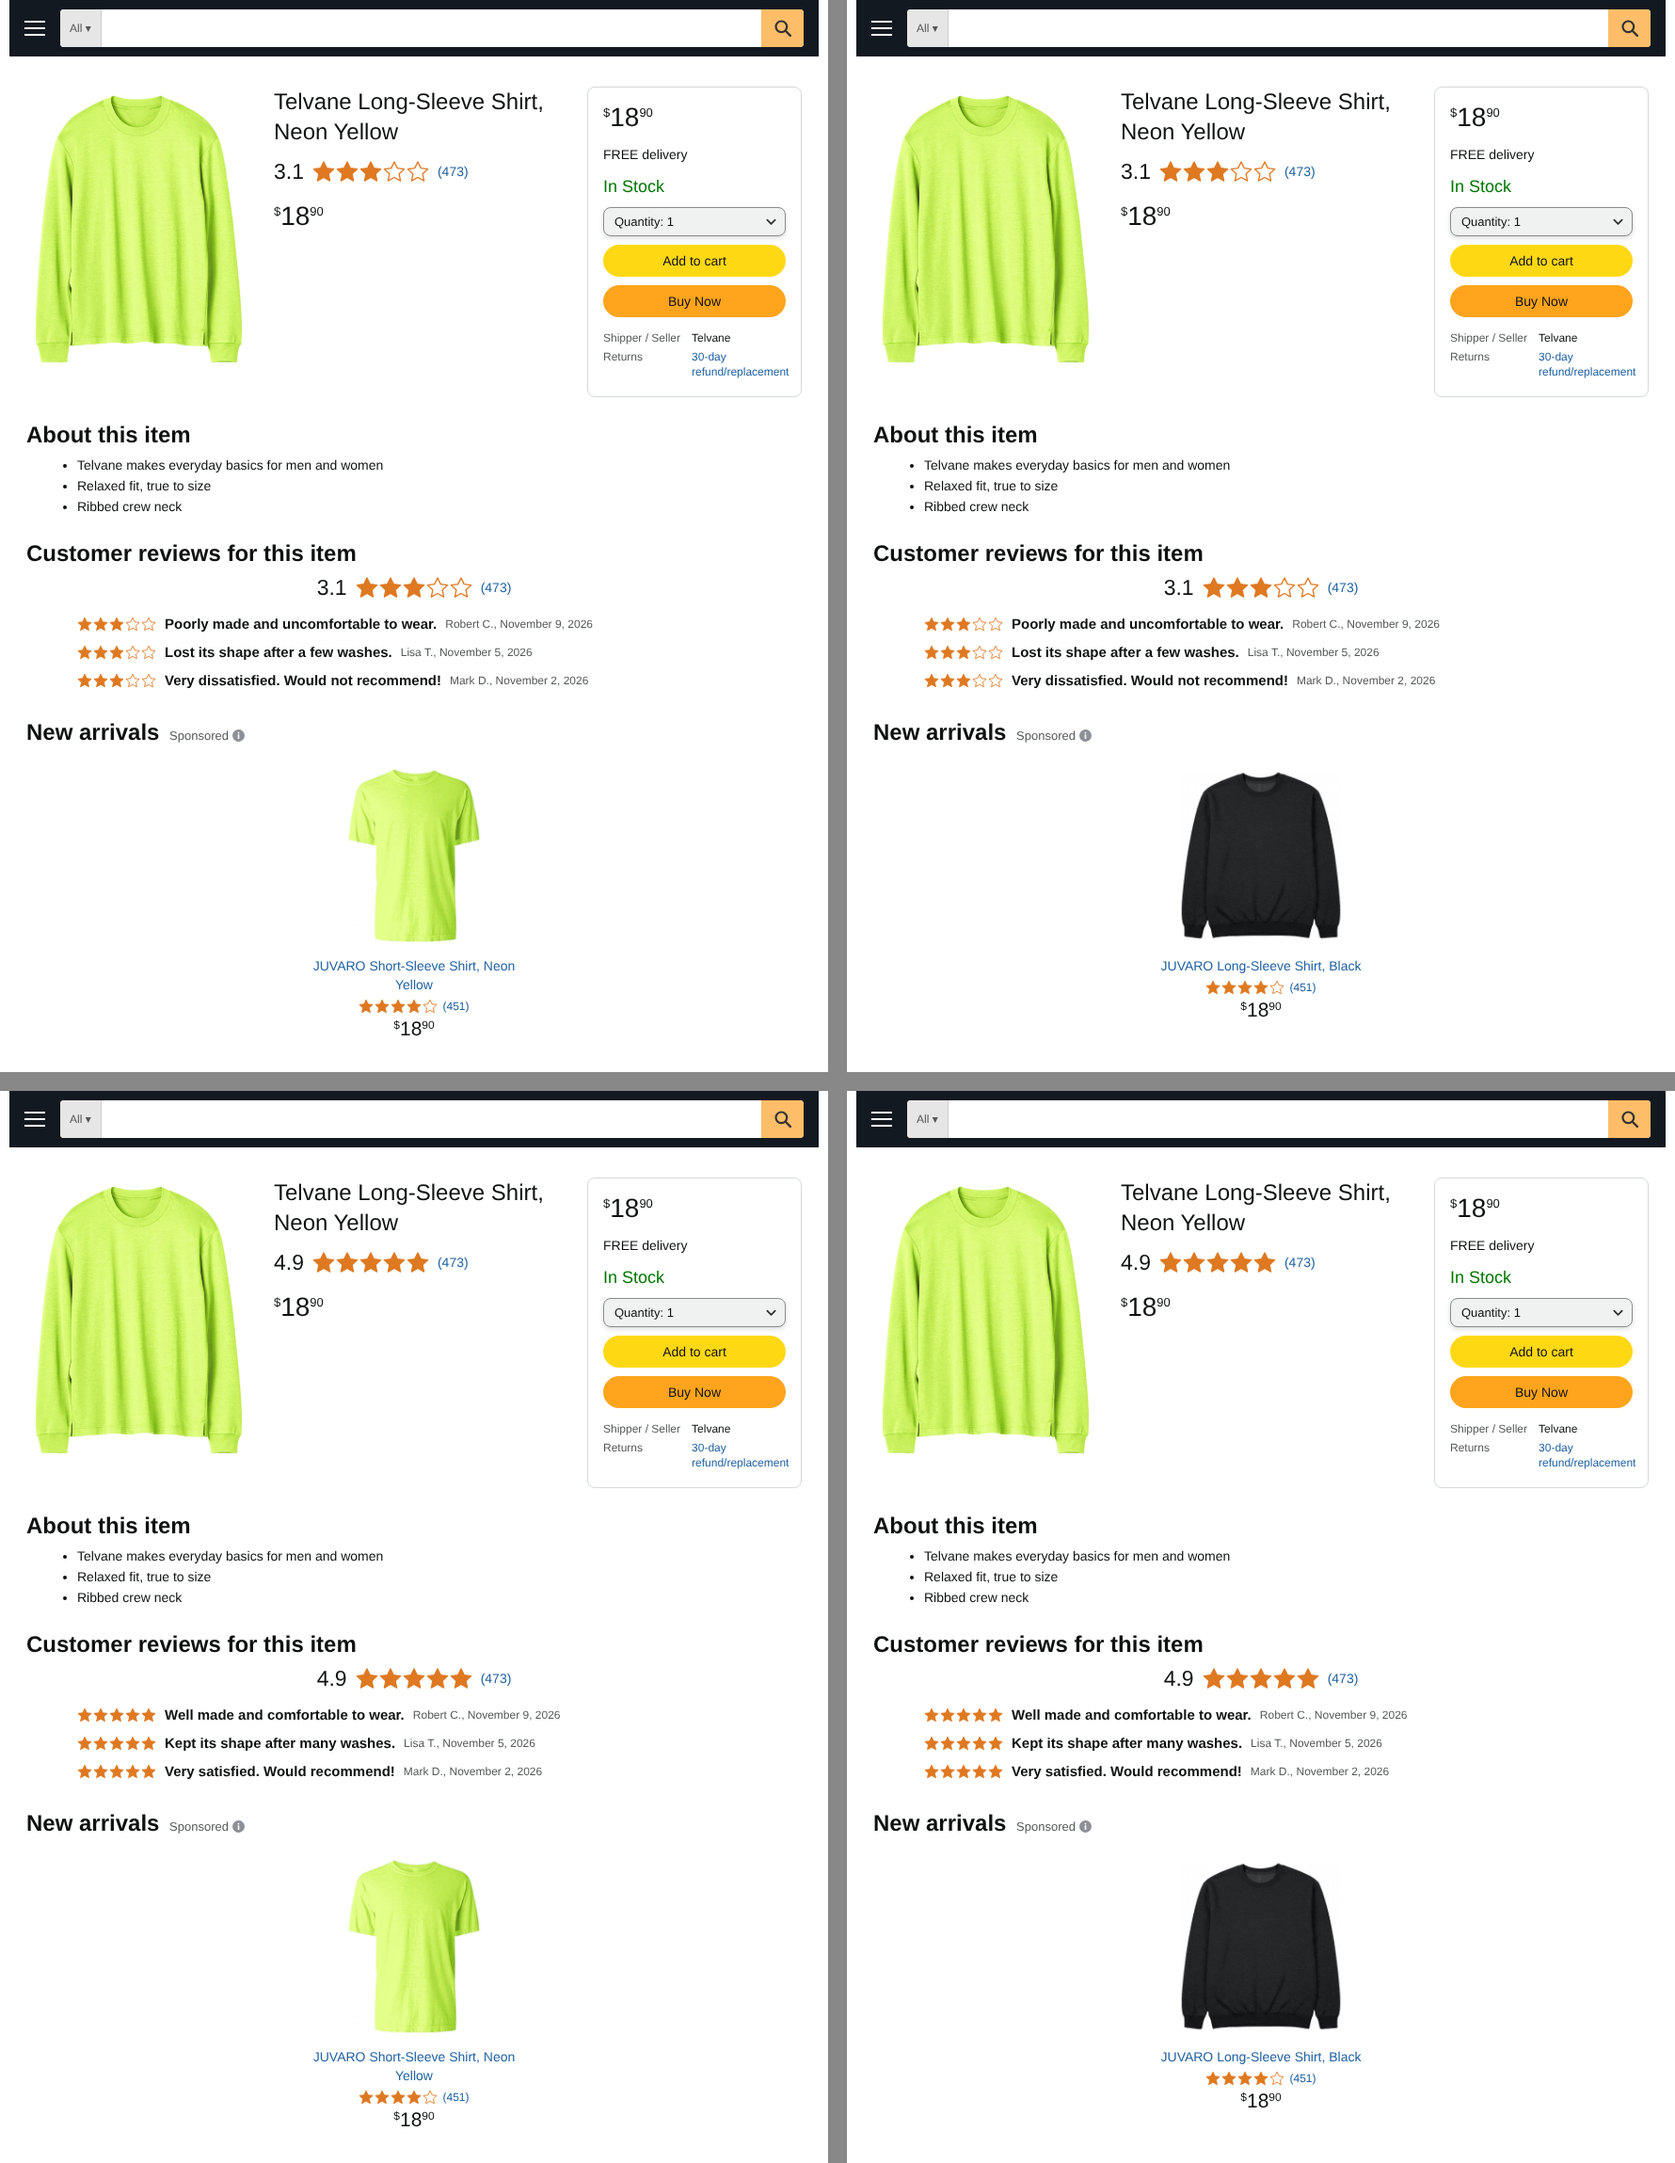
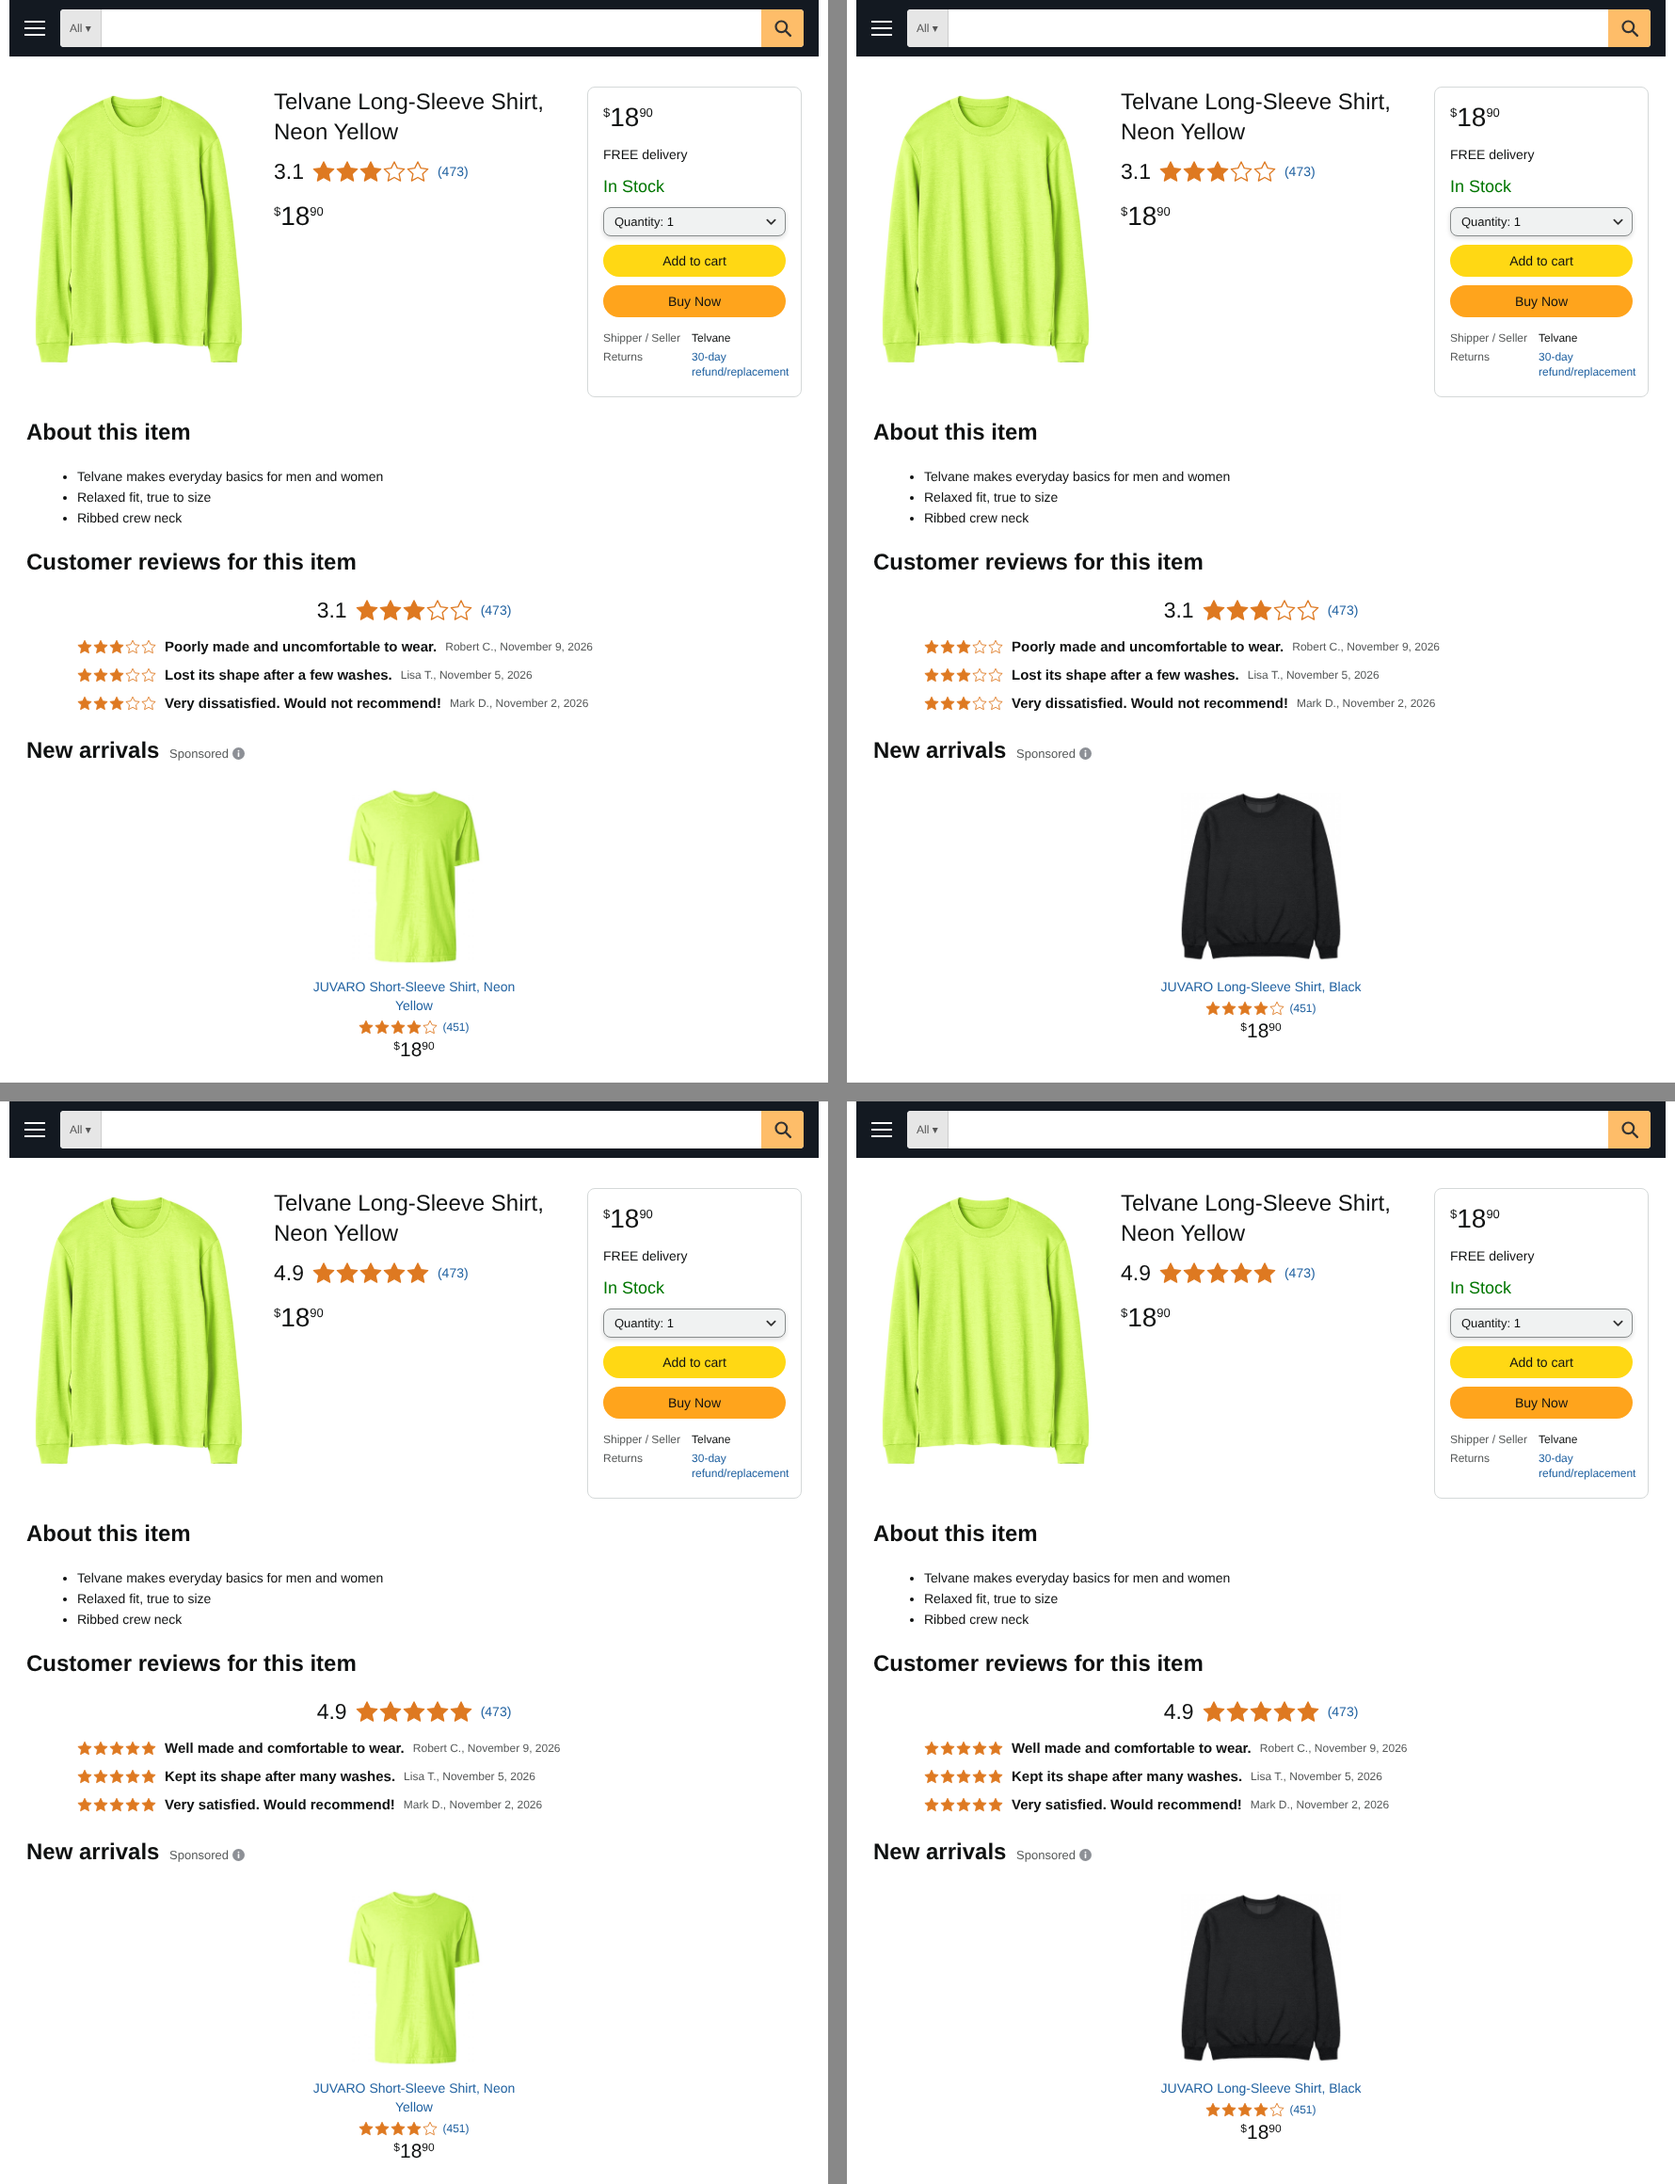
add

diff --git a/S7.10/s710_31_color.html b/S7.10/s710_31_color.html
@@ -44,15 +44,16 @@ h1{margin:0 0 4px;font-size:24px;line-height:32px;font-weight:400}
 .meta td:first-child{color:#565959;padding-right:12px;white-space:nowrap}
 ul{margin:0 0 0 54px;padding:0}
 li{margin:0 0 2px}
-h2{margin:24px 0 6px;font-size:24px;line-height:32px;font-weight:700}
-.revsum{margin:6px 0 10px;justify-content:center}
-.reviews{margin-left:54px}
+/* Same spacing for every section: the visible white space above a section header equals the white space below it. */
+h2{margin:21px 0 21px;font-size:24px;line-height:32px;font-weight:700}
+.revsum{margin:5px 0 10px;justify-content:center}
+.reviews{margin:0 0 -2px 54px}
 .review{display:flex;align-items:center;gap:9px;padding:4px 0}
 .review .text{font-size:15px;line-height:22px;font-weight:700}
 .review .who{font-size:12px;line-height:22px;color:#565959}
 .spons{margin-left:4px;font-size:13px;line-height:20px;font-weight:400;color:#565959;white-space:nowrap}
 .spons svg{position:relative;top:2px}
-.card{width:250px;margin:18px auto 0;text-align:center}
+.card{width:250px;margin:0 auto;text-align:center}
 .card .photo{width:180px;margin:0 auto}
 .card{min-height:299px}
 .card .name{margin-top:10px}
@@ -71,9 +72,9 @@ h2{margin:24px 0 6px;font-size:24px;line-height:32px;font-weight:700}
   .top{grid-template-columns:1fr;row-gap:12px}
   .top .photo{max-width:260px;margin:0 auto}
   h1{font-size:20px;line-height:28px}
-  h2{font-size:20px;line-height:28px;margin-top:22px}
+  h2{font-size:20px;line-height:28px;margin:18px 0 18px}
   ul{margin-left:24px}
-  .card{width:230px;margin:16px auto 0}
+  .card{width:230px;margin:0 auto}
   .card .photo{width:160px}
 }
 </style>

diff --git a/S7.10/s710_31_sleeve.html b/S7.10/s710_31_sleeve.html
@@ -44,15 +44,16 @@ h1{margin:0 0 4px;font-size:24px;line-height:32px;font-weight:400}
 .meta td:first-child{color:#565959;padding-right:12px;white-space:nowrap}
 ul{margin:0 0 0 54px;padding:0}
 li{margin:0 0 2px}
-h2{margin:24px 0 6px;font-size:24px;line-height:32px;font-weight:700}
-.revsum{margin:6px 0 10px;justify-content:center}
-.reviews{margin-left:54px}
+/* Same spacing for every section: the visible white space above a section header equals the white space below it. */
+h2{margin:21px 0 21px;font-size:24px;line-height:32px;font-weight:700}
+.revsum{margin:5px 0 10px;justify-content:center}
+.reviews{margin:0 0 -2px 54px}
 .review{display:flex;align-items:center;gap:9px;padding:4px 0}
 .review .text{font-size:15px;line-height:22px;font-weight:700}
 .review .who{font-size:12px;line-height:22px;color:#565959}
 .spons{margin-left:4px;font-size:13px;line-height:20px;font-weight:400;color:#565959;white-space:nowrap}
 .spons svg{position:relative;top:2px}
-.card{width:250px;margin:18px auto 0;text-align:center}
+.card{width:250px;margin:0 auto;text-align:center}
 .card .photo{width:180px;margin:0 auto}
 .card{min-height:299px}
 .card .name{margin-top:10px}
@@ -71,9 +72,9 @@ h2{margin:24px 0 6px;font-size:24px;line-height:32px;font-weight:700}
   .top{grid-template-columns:1fr;row-gap:12px}
   .top .photo{max-width:260px;margin:0 auto}
   h1{font-size:20px;line-height:28px}
-  h2{font-size:20px;line-height:28px;margin-top:22px}
+  h2{font-size:20px;line-height:28px;margin:18px 0 18px}
   ul{margin-left:24px}
-  .card{width:230px;margin:16px auto 0}
+  .card{width:230px;margin:0 auto}
   .card .photo{width:160px}
 }
 </style>

diff --git a/S7.10/s710_49_color.html b/S7.10/s710_49_color.html
@@ -44,15 +44,16 @@ h1{margin:0 0 4px;font-size:24px;line-height:32px;font-weight:400}
 .meta td:first-child{color:#565959;padding-right:12px;white-space:nowrap}
 ul{margin:0 0 0 54px;padding:0}
 li{margin:0 0 2px}
-h2{margin:24px 0 6px;font-size:24px;line-height:32px;font-weight:700}
-.revsum{margin:6px 0 10px;justify-content:center}
-.reviews{margin-left:54px}
+/* Same spacing for every section: the visible white space above a section header equals the white space below it. */
+h2{margin:21px 0 21px;font-size:24px;line-height:32px;font-weight:700}
+.revsum{margin:5px 0 10px;justify-content:center}
+.reviews{margin:0 0 -2px 54px}
 .review{display:flex;align-items:center;gap:9px;padding:4px 0}
 .review .text{font-size:15px;line-height:22px;font-weight:700}
 .review .who{font-size:12px;line-height:22px;color:#565959}
 .spons{margin-left:4px;font-size:13px;line-height:20px;font-weight:400;color:#565959;white-space:nowrap}
 .spons svg{position:relative;top:2px}
-.card{width:250px;margin:18px auto 0;text-align:center}
+.card{width:250px;margin:0 auto;text-align:center}
 .card .photo{width:180px;margin:0 auto}
 .card{min-height:299px}
 .card .name{margin-top:10px}
@@ -71,9 +72,9 @@ h2{margin:24px 0 6px;font-size:24px;line-height:32px;font-weight:700}
   .top{grid-template-columns:1fr;row-gap:12px}
   .top .photo{max-width:260px;margin:0 auto}
   h1{font-size:20px;line-height:28px}
-  h2{font-size:20px;line-height:28px;margin-top:22px}
+  h2{font-size:20px;line-height:28px;margin:18px 0 18px}
   ul{margin-left:24px}
-  .card{width:230px;margin:16px auto 0}
+  .card{width:230px;margin:0 auto}
   .card .photo{width:160px}
 }
 </style>

diff --git a/S7.10/s710_49_sleeve.html b/S7.10/s710_49_sleeve.html
@@ -44,15 +44,16 @@ h1{margin:0 0 4px;font-size:24px;line-height:32px;font-weight:400}
 .meta td:first-child{color:#565959;padding-right:12px;white-space:nowrap}
 ul{margin:0 0 0 54px;padding:0}
 li{margin:0 0 2px}
-h2{margin:24px 0 6px;font-size:24px;line-height:32px;font-weight:700}
-.revsum{margin:6px 0 10px;justify-content:center}
-.reviews{margin-left:54px}
+/* Same spacing for every section: the visible white space above a section header equals the white space below it. */
+h2{margin:21px 0 21px;font-size:24px;line-height:32px;font-weight:700}
+.revsum{margin:5px 0 10px;justify-content:center}
+.reviews{margin:0 0 -2px 54px}
 .review{display:flex;align-items:center;gap:9px;padding:4px 0}
 .review .text{font-size:15px;line-height:22px;font-weight:700}
 .review .who{font-size:12px;line-height:22px;color:#565959}
 .spons{margin-left:4px;font-size:13px;line-height:20px;font-weight:400;color:#565959;white-space:nowrap}
 .spons svg{position:relative;top:2px}
-.card{width:250px;margin:18px auto 0;text-align:center}
+.card{width:250px;margin:0 auto;text-align:center}
 .card .photo{width:180px;margin:0 auto}
 .card{min-height:299px}
 .card .name{margin-top:10px}
@@ -71,9 +72,9 @@ h2{margin:24px 0 6px;font-size:24px;line-height:32px;font-weight:700}
   .top{grid-template-columns:1fr;row-gap:12px}
   .top .photo{max-width:260px;margin:0 auto}
   h1{font-size:20px;line-height:28px}
-  h2{font-size:20px;line-height:28px;margin-top:22px}
+  h2{font-size:20px;line-height:28px;margin:18px 0 18px}
   ul{margin-left:24px}
-  .card{width:230px;margin:16px auto 0}
+  .card{width:230px;margin:0 auto}
   .card .photo{width:160px}
 }
 </style>

diff --git a/S7.10/build.py b/S7.10/build.py
@@ -167,15 +167,16 @@ h1{margin:0 0 4px;font-size:24px;line-height:32px;font-weight:400}
 .meta td:first-child{color:#565959;padding-right:12px;white-space:nowrap}
 ul{margin:0 0 0 54px;padding:0}
 li{margin:0 0 2px}
-h2{margin:24px 0 6px;font-size:24px;line-height:32px;font-weight:700}
-.revsum{margin:6px 0 10px;justify-content:center}
-.reviews{margin-left:54px}
+/* Same spacing for every section: the visible white space above a section header equals the white space below it. */
+h2{margin:21px 0 21px;font-size:24px;line-height:32px;font-weight:700}
+.revsum{margin:5px 0 10px;justify-content:center}
+.reviews{margin:0 0 -2px 54px}
 .review{display:flex;align-items:center;gap:9px;padding:4px 0}
 .review .text{font-size:15px;line-height:22px;font-weight:700}
 .review .who{font-size:12px;line-height:22px;color:#565959}
 .spons{margin-left:4px;font-size:13px;line-height:20px;font-weight:400;color:#565959;white-space:nowrap}
 .spons svg{position:relative;top:2px}
-.card{width:250px;margin:18px auto 0;text-align:center}
+.card{width:250px;margin:0 auto;text-align:center}
 .card .photo{width:180px;margin:0 auto}
 .card{min-height:299px}
 .card .name{margin-top:10px}
@@ -194,9 +195,9 @@ h2{margin:24px 0 6px;font-size:24px;line-height:32px;font-weight:700}
   .top{grid-template-columns:1fr;row-gap:12px}
   .top .photo{max-width:260px;margin:0 auto}
   h1{font-size:20px;line-height:28px}
-  h2{font-size:20px;line-height:28px;margin-top:22px}
+  h2{font-size:20px;line-height:28px;margin:18px 0 18px}
   ul{margin-left:24px}
-  .card{width:230px;margin:16px auto 0}
+  .card{width:230px;margin:0 auto}
   .card .photo{width:160px}
 }
 """
